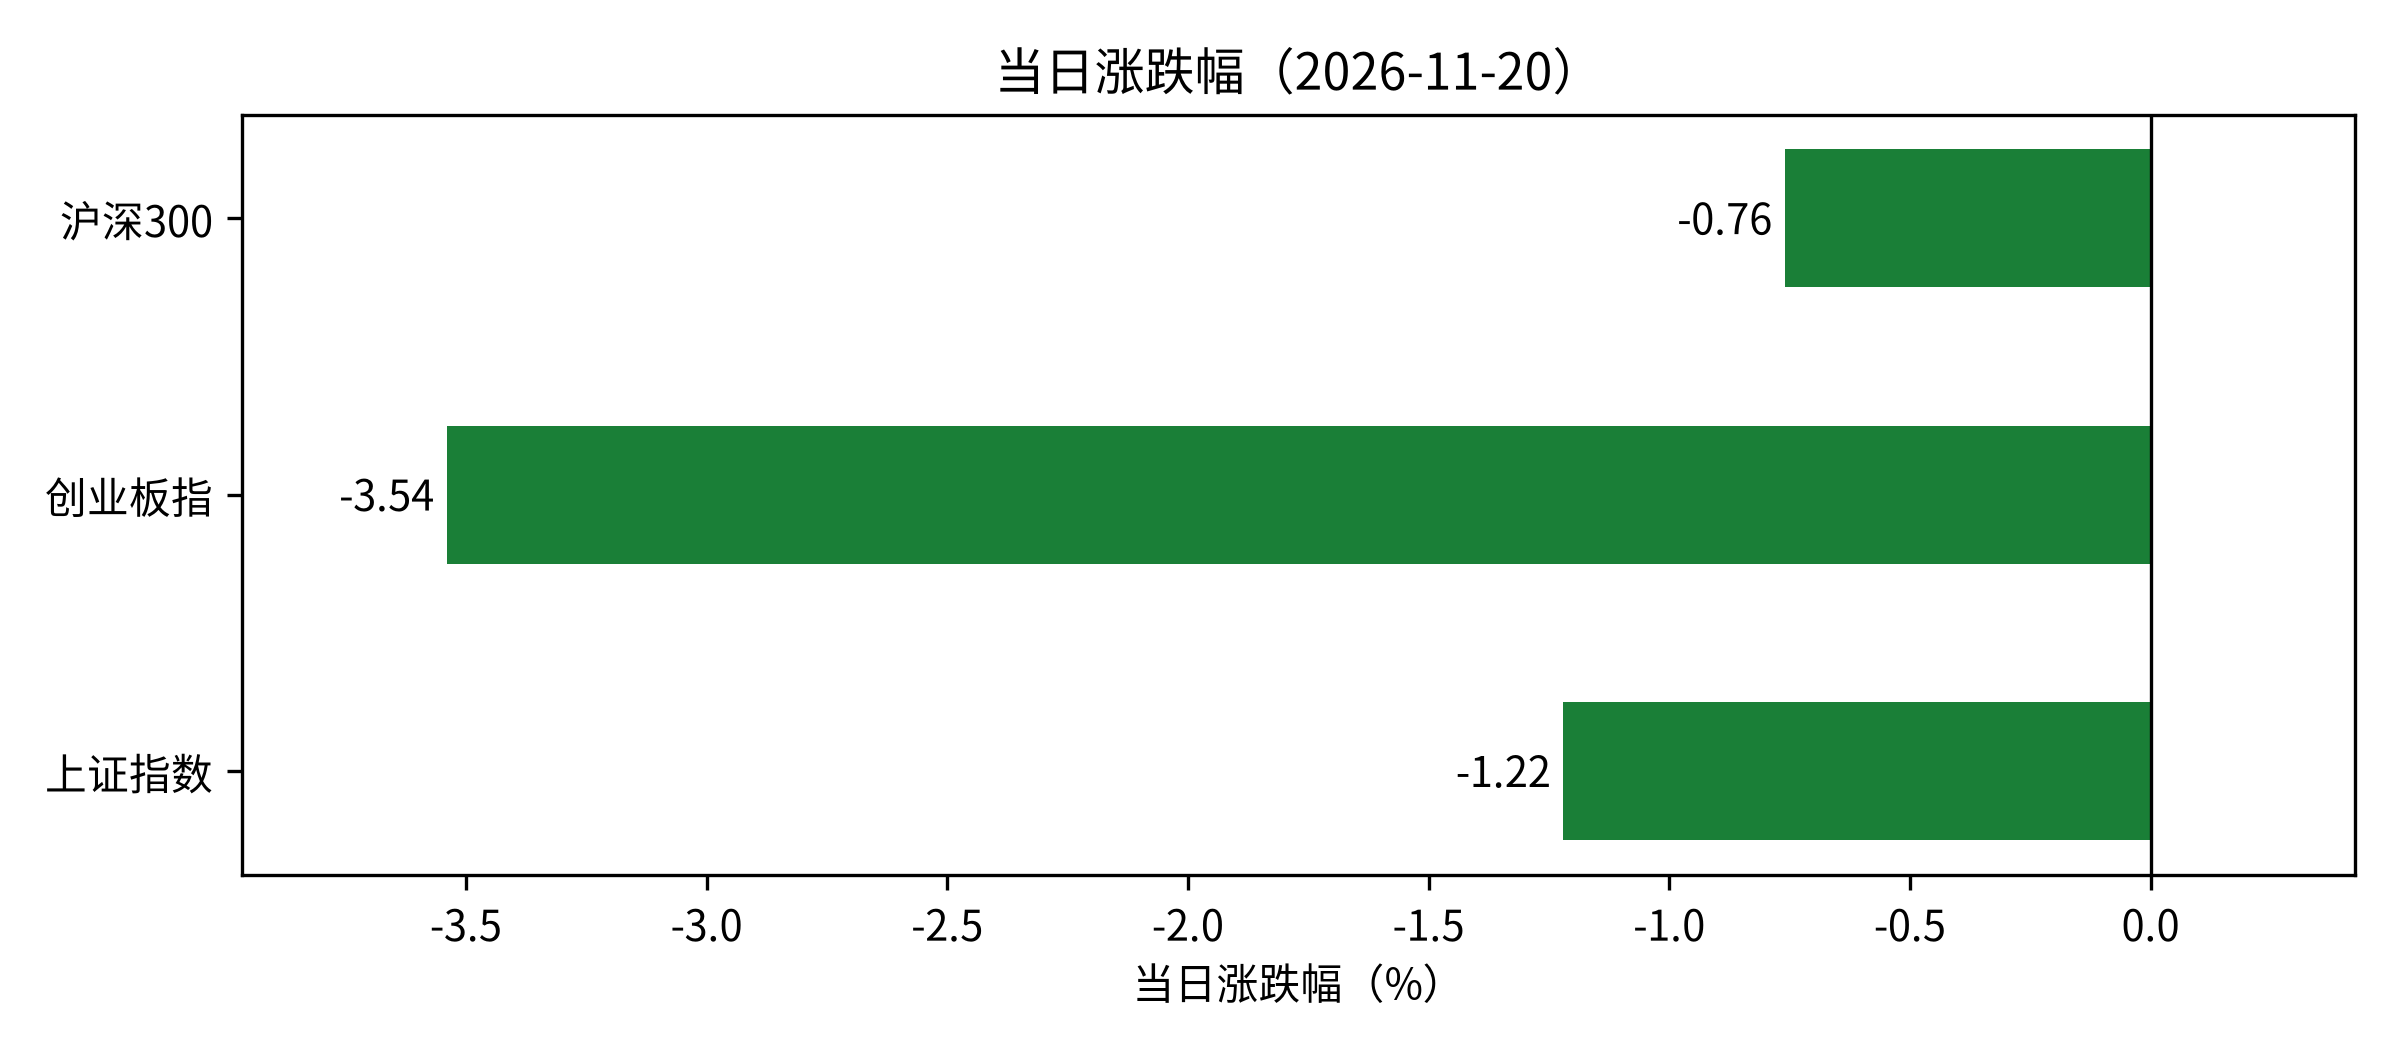
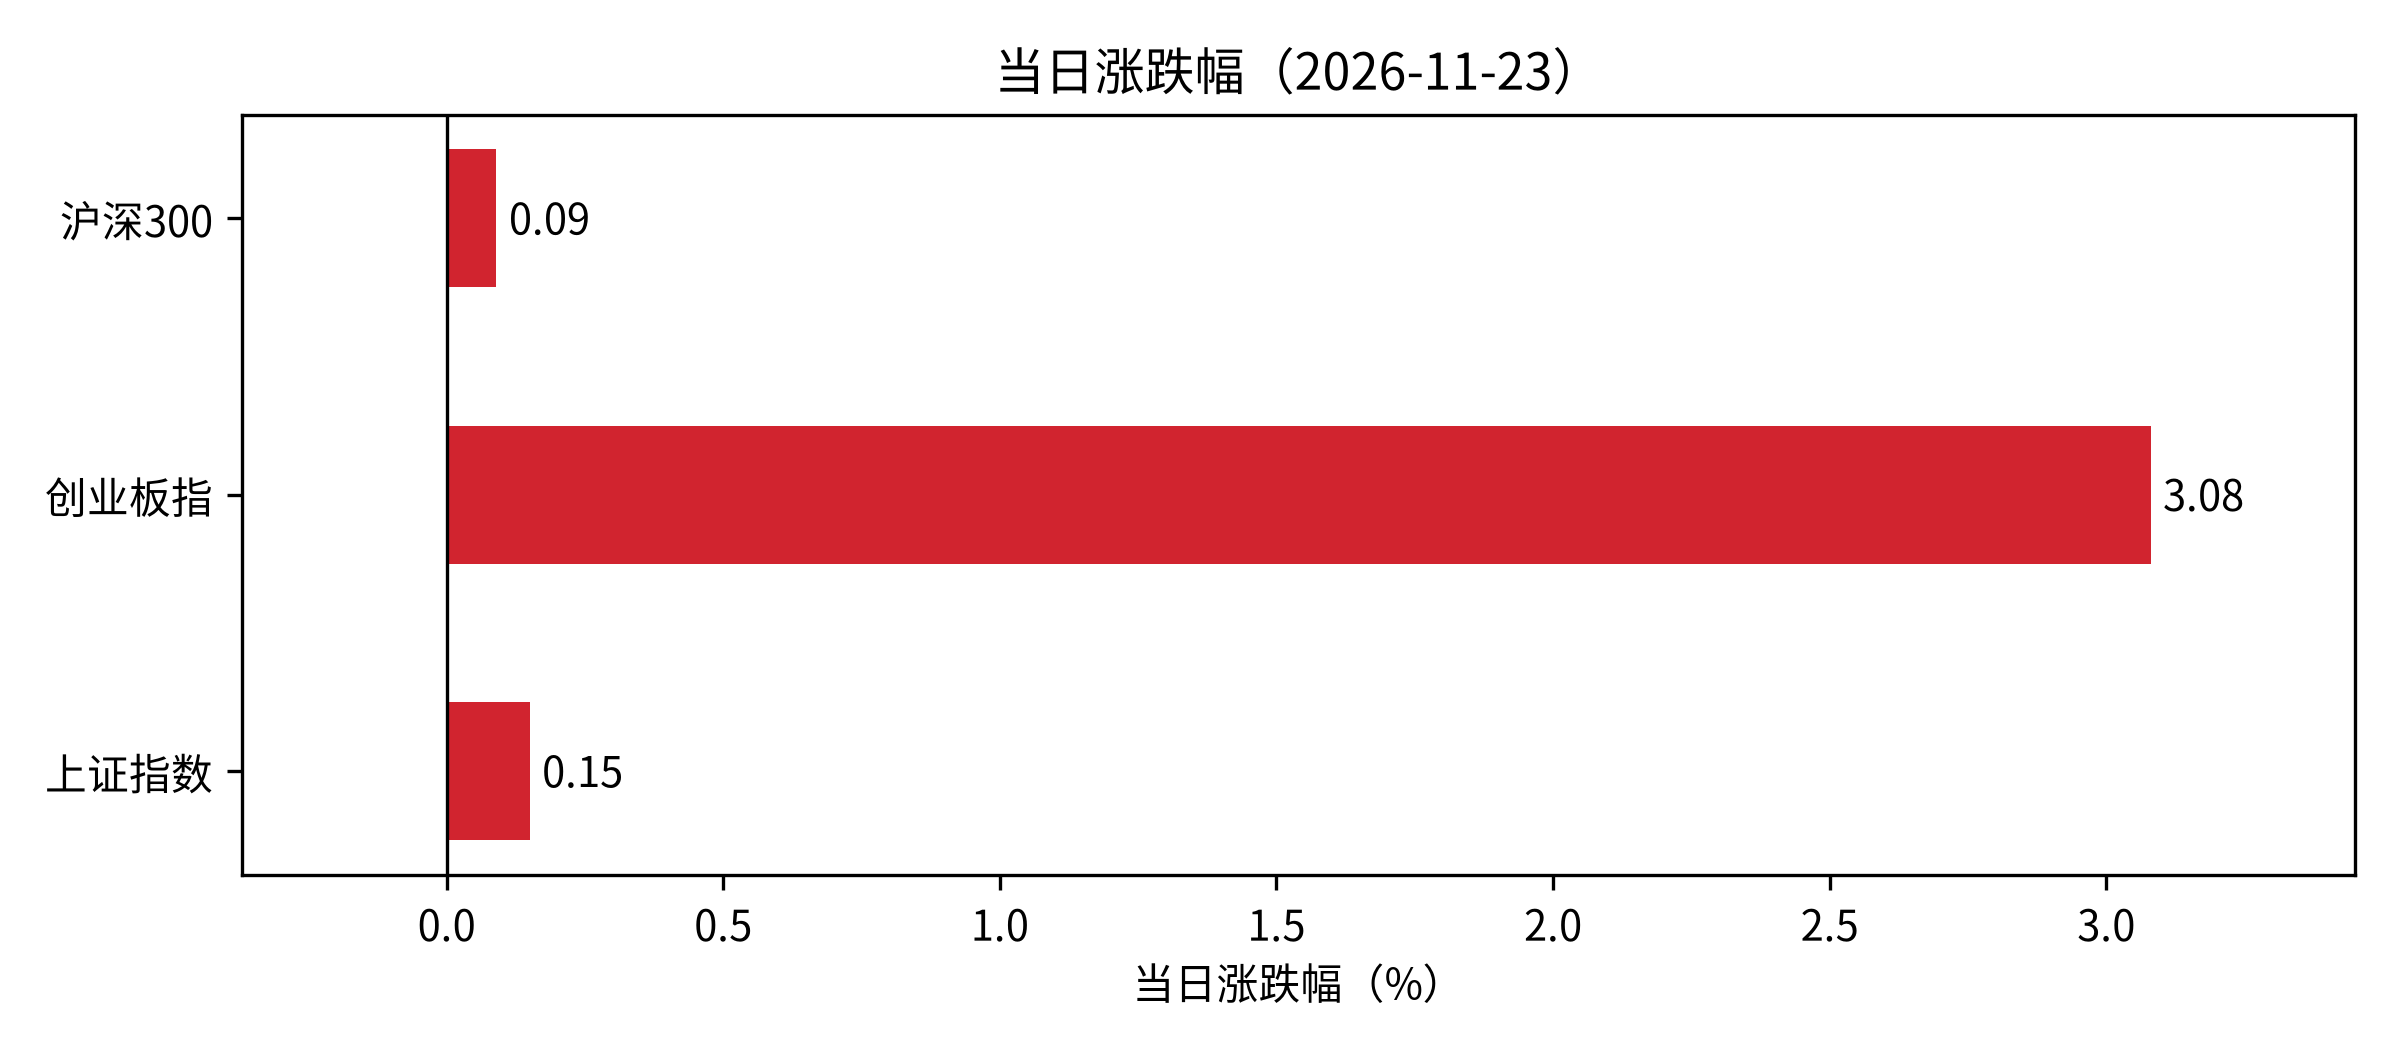
update 2026-11-23

diff --git a/docs/index.html b/docs/index.html
@@ -4,19 +4,19 @@
   <meta charset="utf-8">
   <meta name="viewport" content="width=device-width, initial-scale=1">
   <meta name="description" content="上证指数、沪深300、创业板指的每交易日行情汇总">
-  <title>市场指数日报 · 2026-11-20</title>
+  <title>市场指数日报 · 2026-11-23</title>
   <link rel="stylesheet" href="style.css">
 </head>
 <body>
   <h1>市场指数日报</h1>
-  <p class="date">2026-11-20 收盘</p>
+  <p class="date">2026-11-23 收盘</p>
 
-  <p class="summary">当日三大指数全线收跌，跌幅最大的是创业板指（-3.54%）。年初至今创业板指累计回落 32.85%，幅度最深。</p>
+  <p class="summary">当日三大指数全线收涨，跌幅最大的是沪深300（0.09%）。年初至今创业板指累计回落 30.79%，幅度最深。</p>
 
   <div class="cards">
-    <div class="card"><div class="name">上证指数</div><div class="value down">-1.22%</div><div class="sub">收盘 3533.79</div></div>
-<div class="card"><div class="name">创业板指</div><div class="value down">-3.54%</div><div class="sub">收盘 2212.13</div></div>
-<div class="card"><div class="name">沪深300</div><div class="value down">-0.76%</div><div class="sub">收盘 3954.57</div></div>
+    <div class="card"><div class="name">上证指数</div><div class="value up">+0.15%</div><div class="sub">收盘 3538.95</div></div>
+<div class="card"><div class="name">创业板指</div><div class="value up">+3.08%</div><div class="sub">收盘 2280.20</div></div>
+<div class="card"><div class="name">沪深300</div><div class="value up">+0.09%</div><div class="sub">收盘 3958.29</div></div>
   </div>
 
   <table>
@@ -27,9 +27,9 @@
       </tr>
     </thead>
     <tbody>
-      <tr><td>上证指数</td><td>3533.79</td><td class="down">-1.22%</td><td class="down">-4.25%</td><td class="down">-12.17%</td><td>1.06</td></tr>
-<tr><td>创业板指</td><td>2212.13</td><td class="down">-3.54%</td><td class="down">-17.58%</td><td class="down">-32.85%</td><td>0.93</td></tr>
-<tr><td>沪深300</td><td>3954.57</td><td class="down">-0.76%</td><td class="down">-3.67%</td><td class="down">-16.18%</td><td>1.11</td></tr>
+      <tr><td>上证指数</td><td>3538.95</td><td class="up">+0.15%</td><td class="down">-4.29%</td><td class="down">-12.04%</td><td>1.07</td></tr>
+<tr><td>创业板指</td><td>2280.20</td><td class="up">+3.08%</td><td class="down">-13.57%</td><td class="down">-30.79%</td><td>1.05</td></tr>
+<tr><td>沪深300</td><td>3958.29</td><td class="up">+0.09%</td><td class="down">-3.54%</td><td class="down">-16.10%</td><td>1.07</td></tr>
     </tbody>
   </table>
 
@@ -40,11 +40,11 @@
 
   <figure>
     <img src="img/bar.png" alt="当日涨跌幅">
-    <figcaption>2026-11-20 当日涨跌幅，红涨绿跌</figcaption>
+    <figcaption>2026-11-23 当日涨跌幅，红涨绿跌</figcaption>
   </figure>
 
   <footer>
-    数据来源：新浪财经 · 最后生成：2026-11-21 01:57
+    数据来源：新浪财经 · 最后生成：2026-11-24 05:37
   </footer>
 </body>
 </html>
